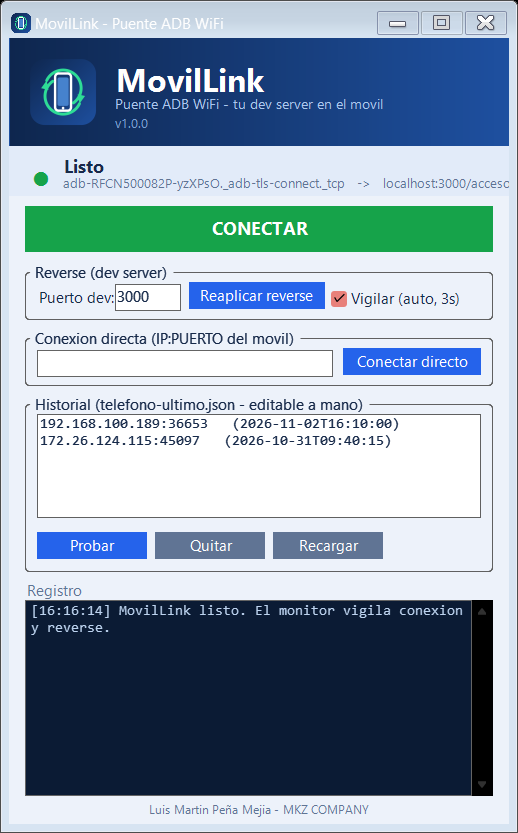
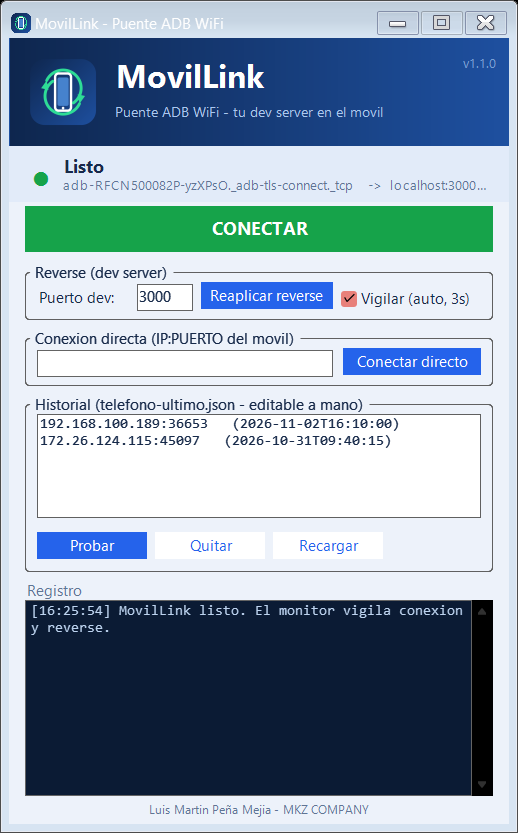
MOVILLINK v1.1.0: MENU ASISTENTE UNICO + DOMINIO DATOS + UI ENDURECIDA
ARCHIVOS: MovilLink.bat (menu guia paso a paso con estado en vivo), APP/Estado.ps1, APP/Diagnostico.ps1, APP/Preparar-Antivirus.ps1, APP/Lanzador.vbs, APP/Datos/ (ficha + ejemplo), APP/Core/MovilLink.Core.ps1, APP/Interfaz/MovilLink.UI.ps1, README.md, CHANGELOG.md, .gitignore
- Un solo .bat en raiz: el menu guia antivirus/instalar/app/consola/diagnostico/logs
- Ficha movida al dominio APP/Datos/ (fuera de la raiz)
- UI endurecida: mutex instancia unica, puerto validado 1-65535, guardia adb en todos los caminos, trap global a logs/, historial con estado vacio, AutoEllipsis
- Layout corregido: subtitulo/version sin clip, Puerto dev sin solape, detalle de estado visible, botones secundarios legibles

ESTADO: COMPLETADO
FECHA: lunes 2 de noviembre de 2026, 16:28
AUTOR: MKZ COMPANY

diff --git a/README.md b/README.md
@@ -6,7 +6,7 @@
 ![PowerShell](https://img.shields.io/badge/PowerShell-5.1+-5391FE?style=flat-square&logo=powershell&logoColor=white)
 ![ADB](https://img.shields.io/badge/ADB-WiFi%20(TLS)-1E7A3C?style=flat-square&logo=android&logoColor=white)
 ![Licencia](https://img.shields.io/badge/Licencia-MIT-yellow?style=flat-square)
-![Versión](https://img.shields.io/badge/v1.0.1-release-185E30?style=flat-square)
+![Versión](https://img.shields.io/badge/v1.1.0-release-185E30?style=flat-square)
 ![Hecho en RD](https://img.shields.io/badge/Hecho%20en-Rep%C3%BAblica%20Dominicana%20%F0%9F%87%A9%F0%9F%87%B4-CE1126?style=flat-square)
 
 </div>
@@ -32,16 +32,16 @@ pestaña.
 
 | Vía | Enlace | Para quién |
 |---|---|---|
-| **Release ZIP** | [MovilLink-v1.0.1.zip](https://github.com/luismartin023/movillink/releases/latest) | Todos — la forma recomendada |
+| **Release ZIP** | [MovilLink-v1.1.0.zip](https://github.com/luismartin023/movillink/releases/latest) | Todos — la forma recomendada |
 | Code → Download ZIP | Este repo | Si quieres el código fuente completo |
 
 ## Necesarios
 
-Lo que el usuario debe tener — el instalador lo resuelve solo:
+Lo que el usuario debe tener — el menú lo resuelve solo:
 
 | Herramienta | Para qué | Cómo se instala |
 |---|---|---|
-| **Android Platform-Tools** (`adb`) | Hablar con el móvil por WiFi | `1-Instalar-Necesarios.bat` — winget (global) o descarga oficial portable a `APP\platform-tools\` |
+| **Android Platform-Tools** (`adb`) | **El corazón de la app** — conectar el móvil a la PC por WiFi para el dev de localhost | Opción `[2]` del menú — winget (global) o ZIP oficial portable a `APP\platform-tools\` |
 | **PowerShell 5.1+** | La app entera | Ya viene en Windows 10/11 |
 | **Depuración inalámbrica ON** en el móvil | Que el PC lo vea | Ajustes → Opciones de desarrollador → Depuración inalámbrica (misma WiFi) |
 | **Vinculación** (una sola vez) | `adb pair IP:PUERTO` con el código del móvil | Manual, la primera vez por PC |
@@ -52,23 +52,22 @@ lanza el instalador por ti.
 ## Uso
 
 ```
-1. 0-Preparar-Antivirus.bat  (una sola vez — excluye la carpeta de Defender)
-2. 1-Instalar-Necesarios.bat (una sola vez — instala adb si falta)
-3. MovilLink.vbs             (doble clic → abre la ventana, CERO consola)
-4. Pulsa CONECTAR → en el móvil abre http://localhost:3000
+1. MovilLink.bat  (doble clic → abre el ASISTENTE paso a paso)
+2. El menú te dice qué falta:  [1] antivirus → [2] instalar adb → [3] abrir app
+3. Pulsa CONECTAR → en el móvil abre http://localhost:3000
 ```
 
-> `MovilLink.vbs` es el lanzador recomendado: arranca PowerShell sin
-> ventana — ni cmd, ni icono de PowerShell en la barra, solo la app con
-> su propio icono. `MovilLink.bat` queda como respaldo (hace lo mismo
-> pero parpadea una consola al abrir).
+> Un solo `.bat` en la raíz: un menú que muestra el estado en vivo
+> (adb / móvil / reverse) y te guía en orden. Si falta adb, la propia
+> app también ofrece **INSTALAR AHORA**. La ventana se abre sin consola
+> vía `APP\Lanzador.vbs` — ni cmd, ni icono de PowerShell en la barra.
 
 - **CONECTAR** (botón verde): el plan completo automático.
 - **Vigilar** (activo por defecto): reconecta y re-aplica el reverse solo.
 - **Conexión directa**: escribe el `IP:PUERTO` de la pantalla del móvil.
-- **Historial**: la lista `telefono-ultimo.json` — prueba entradas de una
-  en una o edítala a mano.
-- **Consola**: `APP\Consola\MovilLink.CLI.bat` — mismo motor por terminal.
+- **Historial**: la lista `APP\Datos\telefono-ultimo.json` — prueba
+  entradas de una en una o edítala a mano.
+- **Consola**: opción `[4]` del menú — mismo motor por terminal.
 
 ## Cómo conecta (orden real)
 
@@ -98,19 +97,20 @@ lanza el instalador por ti.
 ## Estructura
 
 ```
-├── 0-Preparar-Antivirus.bat   paso 0: exclusion de Defender
-├── 1-Instalar-Necesarios.bat  paso 1: instala adb (winget o portable)
-├── MovilLink.vbs              lanzador → ventana sin consola
-├── MovilLink.bat              lanzador respaldo
-├── telefono-ultimo.json       ficha viva (local, gitignored)
+├── MovilLink.bat              UNICO lanzador: menu asistente paso a paso
 ├── README.md · LICENSE · CHANGELOG · CONTRIBUTING · CODE_OF_CONDUCT · SECURITY
 └── APP/                        dividida por dominios
     ├── Core/        MovilLink.Core.ps1 — orquestador (Connect-Auto, reverse)
     │   └── Dominio/ adb.ps1 · red.ps1 · ficha.ps1 — dominio puro
+    ├── Datos/       telefono-ultimo.json (ficha viva, gitignored) + ejemplo
     ├── Interfaz/    MovilLink.UI.ps1 — adaptador WinForms (DPI-aware)
     ├── Consola/     MovilLink.CLI.ps1/.bat — adaptador terminal
     ├── Recursos/    logo.png · app.ico · banner.png · captura.png
-    └── Instalar-Necesarios.ps1 — instalador de dependencias
+    ├── Lanzador.vbs           abre la ventana sin consola
+    ├── Estado.ps1             linea de estado para el menu
+    ├── Diagnostico.ps1        adb / mDNS / reverse / ficha de un vistazo
+    ├── Preparar-Antivirus.ps1 exclusion de Defender (self-elevating)
+    └── Instalar-Necesarios.ps1 instalador de dependencias
 ```
 
 La lógica vive solo en `Core/`; la ventana y la consola son adaptadores

diff --git a/CHANGELOG.md b/CHANGELOG.md
@@ -1,5 +1,22 @@
 # CHANGELOG — MovilLink
 
+## v1.1.0 — 2026-11-02
+
+Menu asistente y endurecimiento:
+
+- **Un solo `.bat` en la raiz**: `MovilLink.bat` abre un menu guiado paso
+  a paso con estado en vivo (adb / movil / reverse): exclusion de
+  antivirus, instalar herramientas, abrir app, consola, diagnostico y logs.
+- `APP/Estado.ps1`, `APP/Diagnostico.ps1`, `APP/Preparar-Antivirus.ps1`
+  (self-elevating) y `APP/Lanzador.vbs` (ventana sin consola) — los bats
+  sueltos de la raiz desaparecen.
+- **Dominio Datos**: la ficha vive en `APP/Datos/telefono-ultimo.json`
+  (+ `.ejemplo`), ya no en la raiz.
+- UI endurecida: puerto dev validado (1-65535, vuelve a 3000), guardia
+  cuando falta adb en todos los caminos (estado, monitor, botones),
+  historial con estado vacio guiado, `AutoEllipsis` en el detalle y
+  `trap` global a `logs/` ademas del try/catch por handler.
+
 ## v1.0.1 — 2026-11-02
 
 Pulido del lanzamiento (mismo día):
